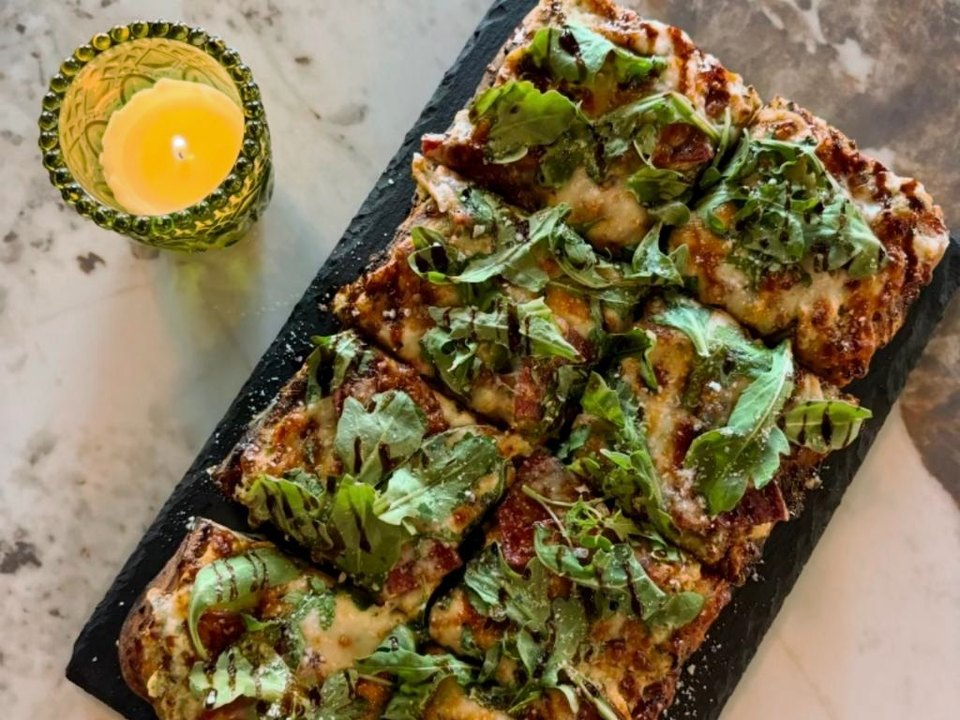
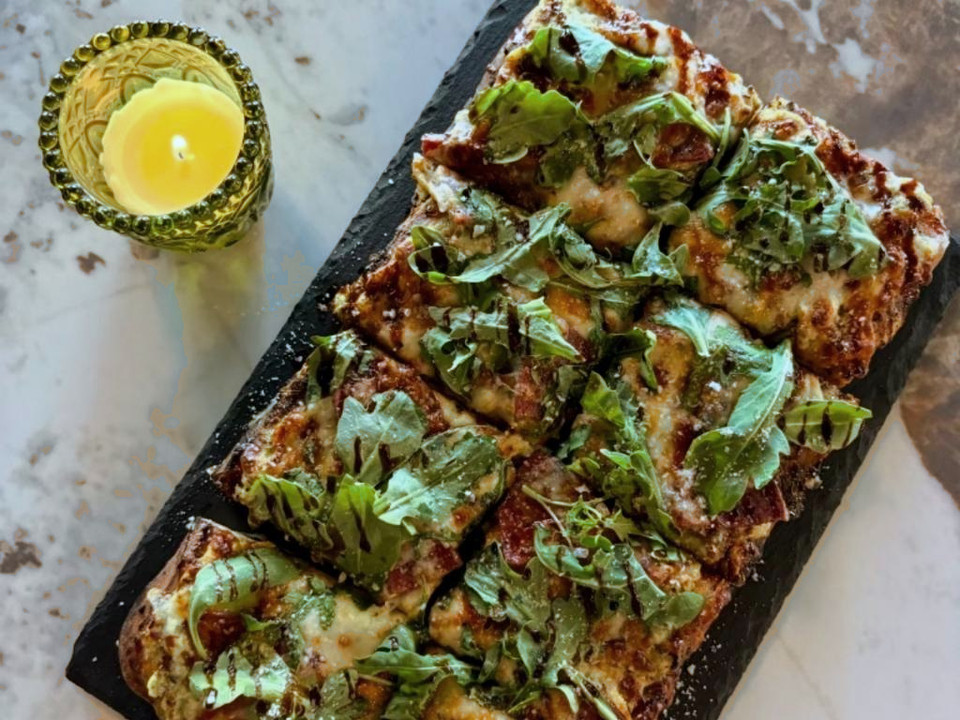
Give the menu strip a full-width bar and cool the featured plates.
The desktop category bar now spans the page and clears the dishes. Featured DoorDash plates are re-exported cooler at native size. Jazz food sits side by side, event links are named, and the shared hover transition covers colour only.

diff --git a/public/menu.html b/public/menu.html
@@ -40,8 +40,8 @@
     .actions { display:flex; flex-wrap:wrap; gap:10px; align-items:center; margin:8px 0 22px; }
     .btn { display:inline-flex; align-items:center; justify-content:center; min-height:44px; padding:14px 22px; background:var(--gold); color:var(--black); text-decoration:none; font-size:.72rem; letter-spacing:.16em; text-transform:uppercase; }
     .btn.line { background:transparent; color:#f4ead8; border:1px solid rgba(244,234,216,.72); font-weight:500; }
-    .menu-jumps { display:flex; flex-wrap:wrap; gap:8px 10px; position:sticky; top:84px; z-index:20; background:#070605; padding:8px 0; margin:0 0 20px; }
-    .menu-jumps a { display:inline-flex; align-items:center; min-height:44px; padding:10px 14px; color:var(--gold-bright); font-size:16px; line-height:1.3; text-decoration:none; border-bottom:1px solid rgba(212,175,106,.5); transition:color 160ms ease; }
+    .menu-jumps { display:flex; flex-wrap:wrap; gap:8px 10px; position:sticky; top:84px; z-index:30; background:#070605; padding:12px 0 16px; margin:0 0 28px; border-bottom:1px solid rgba(212,175,106,.35); }
+    .menu-jumps a { display:inline-flex; align-items:center; min-height:44px; padding:10px 14px; color:var(--gold-bright); font-size:16px; line-height:1.3; text-decoration:none; border-bottom:1px solid rgba(212,175,106,.5); }
     .menu-jumps a:hover { color:var(--cream); border-bottom-color:var(--gold-bright); background:rgba(212,175,106,.16); }
     .menu-jumps a:focus-visible { color:var(--cream); outline:2px solid var(--gold-bright); outline-offset:3px; background:rgba(212,175,106,.16); }
     .menu-jumps a[aria-current="true"] { color:var(--cream); border-bottom-color:var(--gold); box-shadow:inset 0 -2px 0 var(--gold); }
@@ -53,7 +53,7 @@
     .cat-split { display:grid; grid-template-columns:1fr; gap:12px; align-items:start; margin-top:8px; }
     .cat-split > div, .cat-split > .cat-photo { grid-column:auto; grid-row:auto; min-width:0; margin:0; }
     .cat-split h3 { margin-top:8px; }
-    .menu-board section, #hot-honey, #garden-mezze, #classic-melt { scroll-margin-top:156px; }
+    .menu-board section, #hot-honey, #garden-mezze, #classic-melt, .cat-photo { scroll-margin-top:196px; }
     body.has-site-nav .menu-lead img { width:100%; max-width:100%; height:auto; margin:0; aspect-ratio:auto; object-fit:contain; display:block; border-radius:6px; }
     body.has-site-nav .cat-photo img { width:100%; height:auto; aspect-ratio:4/3; object-fit:contain; object-position:center; display:block; border-radius:6px; }
     @media (max-width:768px) {
@@ -76,6 +76,7 @@
     }
     .chapter-grid { display:grid; grid-template-columns:1fr; gap:36px; align-items:start; }
     @media (min-width:761px) {
+      .menu-jumps { box-shadow: 100vmax 0 0 #070605, -100vmax 0 0 #070605; }
       .chapter-grid { grid-template-columns:repeat(2, minmax(0, 1fr)); column-gap:32px; }
       .chapter-grid > :nth-child(3) { grid-column:1 / -1; }
       .chapter-grid > :nth-child(3) ul { display:grid; grid-template-columns:repeat(2, minmax(0, 1fr)); column-gap:56px; row-gap:0; align-items:start; }
@@ -104,12 +105,12 @@
       .chapter-grid { grid-template-columns:1fr; }
       .chapter-grid > :nth-child(3) { grid-column:auto; }
       .chapter-grid > :nth-child(3) ul { display:block; grid-template-columns:none; }
-      .menu-jumps { position:sticky; top:76px; z-index:20; background:#070605; flex-wrap:nowrap; overflow-x:scroll; overscroll-behavior-x:contain; padding:12px 0 10px; margin-bottom:20px; scrollbar-width:thin; scrollbar-color:#d4af6a rgba(212,175,106,.28); }
+      .menu-jumps { top:76px; flex-wrap:nowrap; overflow-x:scroll; overscroll-behavior-x:contain; padding:12px 20px 10px; margin-bottom:20px; scrollbar-width:thin; scrollbar-color:#d4af6a rgba(212,175,106,.28); }
       .menu-jumps::-webkit-scrollbar { height:3px; }
       .menu-jumps::-webkit-scrollbar-track { background:rgba(212,175,106,.18); }
       .menu-jumps::-webkit-scrollbar-thumb { background:#d4af6a; }
       .menu-jumps a { flex:0 0 auto; padding:12px 18px; }
-      .menu-board section { scroll-margin-top:148px; }
+      .menu-board section, .cat-photo { scroll-margin-top:168px; }
     }
   </style>
 </head>

diff --git a/public/private-events.html b/public/private-events.html
@@ -37,7 +37,7 @@
     .card h3 { margin-top:0; }
     .card p:last-child { margin-bottom:0; }
     .card ul { margin-left:18px; }
-    .plan-link { display:inline-block; margin-top:4px; font-family:system-ui,-apple-system,"Segoe UI",Roboto,sans-serif; font-size:17px; font-weight:400; letter-spacing:normal; line-height:1.6; color:var(--gold-bright); text-decoration:underline; text-underline-offset:0.15em; transition:color 160ms ease; }
+    .plan-link { display:inline-flex; align-items:center; min-height:44px; margin-top:4px; padding:0 2px; font-family:system-ui,-apple-system,"Segoe UI",Roboto,sans-serif; font-size:17px; font-weight:400; letter-spacing:normal; line-height:1.6; color:var(--gold-bright); text-decoration:underline; text-underline-offset:0.15em; }
     .plan-link:hover { color:var(--cream); }
     .plan-link:focus-visible { outline:2px solid var(--gold-bright); outline-offset:3px; }
     .price-note { font-size:.85rem; color:var(--muted); line-height:1.6; }
@@ -56,7 +56,7 @@
     .inquire-form label { display:block; font-family:'Josefin Sans', sans-serif; font-size:.68rem; letter-spacing:.14em; text-transform:uppercase; color:var(--gold); margin-bottom:8px; }
     .inquire-form input, .inquire-form select, .inquire-form textarea { box-sizing:border-box; width:100%; max-width:100%; min-width:0; background:transparent; color:var(--cream); border:1px solid rgba(212,175,106,.35); padding:0 16px; min-height:48px; height:48px; font-family:system-ui,-apple-system,"Segoe UI",Roboto,sans-serif; font-size:16px; line-height:1.4; }
     .inquire-form input:focus, .inquire-form select:focus, .inquire-form textarea:focus,
-    .inquire-form input:focus-visible, .inquire-form select:focus-visible, .inquire-form textarea:focus-visible { outline:2px solid #d4af6a; outline-offset:2px; border-color:#d4af6a; }
+    .inquire-form input:focus-visible, .inquire-form select:focus-visible, .inquire-form textarea:focus-visible { outline:2px solid #d4af6a; outline-offset:2px; border-color:#d4af6a; background:rgba(212,175,106,.1); }
     .inquire-form textarea { height:auto; min-height:120px; padding:14px 16px; resize:vertical; }
     .inquire-form button { border:0; cursor:pointer; font-family:'Josefin Sans', sans-serif; min-height:48px; }
     .actions { display:flex; flex-wrap:wrap; gap:10px; justify-content:flex-start; align-items:center; }
@@ -142,28 +142,28 @@
         <span class="tag">Corporate</span>
         <h3>Alcohol-Free Happy Hour</h3>
         <p>Team time, with alcohol-free cocktails.</p>
-        <a class="plan-link" href="#inquire" data-occasion="Office gathering">Plan this gathering →</a>
+        <a class="plan-link" href="#inquire" data-occasion="Office gathering">Plan team time →</a>
       </div>
 
       <div class="card">
         <span class="tag">Celebration</span>
         <h3>Showers &amp; Birthdays</h3>
         <p>Showers, birthdays, and a reason to get everyone together.</p>
-        <a class="plan-link" href="#inquire" data-occasion="Shower">Plan this gathering →</a>
+        <a class="plan-link" href="#inquire" data-occasion="Shower">Plan a celebration →</a>
       </div>
 
       <div class="card">
         <span class="tag">Private</span>
         <h3>A Reserved Section</h3>
         <p>Book clubs, anniversaries, and room to catch up.</p>
-        <a class="plan-link" href="#inquire" data-occasion="Book club">Plan this gathering →</a>
+        <a class="plan-link" href="#inquire" data-occasion="Book club">Plan your gathering →</a>
       </div>
 
       <div class="card">
         <span class="tag">Recovery</span>
         <h3>Recovery Milestones</h3>
         <p>Mark the milestone with good company and alcohol-free cocktails.</p>
-        <a class="plan-link" href="#inquire" data-occasion="Recovery milestone">Plan this gathering →</a>
+        <a class="plan-link" href="#inquire" data-occasion="Recovery milestone">Mark the milestone →</a>
       </div>
     </div>
 

diff --git a/public/sunday-jazz-brunch.html b/public/sunday-jazz-brunch.html
@@ -23,9 +23,9 @@
     .shell { width:min(100% - 40px, 1080px); margin:0 auto; padding:56px 0 72px; }
     h1 { font-family:'Cormorant Garamond', Georgia, serif; font-weight:500; font-size:clamp(2.4rem,5vw,3rem); letter-spacing:0; text-transform:none; color:var(--cream); margin-bottom:16px; line-height:1.05; }
     h2 { font-family:'Cormorant Garamond', Georgia, serif; font-weight:500; font-size:1.7rem; color:var(--gold-bright); margin:32px 0 12px; letter-spacing:0; text-transform:none; }
-    h2.order-head { font-size:clamp(2.6rem, 6vw, 3.5rem); line-height:1.05; }
+    h2.order-head { font-size:clamp(2.6rem, 6vw, 3.5rem); line-height:1.05; text-wrap:balance; }
     .order-links { display:flex; flex-wrap:wrap; gap:8px 22px; margin:4px 0 0; }
-    .order-links a { color:var(--gold); text-decoration:none; transition:color 160ms ease; }
+    .order-links a { color:var(--gold); text-decoration:none; }
     .order-links a:hover { color:var(--cream); }
     p, li, dd { font-family:system-ui,-apple-system,"Segoe UI",Roboto,sans-serif; font-size:17px; font-weight:400; letter-spacing:normal; line-height:1.6; color:#f4ead8; }
     p, li { margin-bottom:14px; }
@@ -51,7 +51,7 @@
     figcaption { font-family:'Josefin Sans', sans-serif; font-size:.75rem; letter-spacing:.12em; text-transform:uppercase; color:var(--gold); margin-top:8px; }
     details { border:0; border-top:1px solid rgba(244,234,216,.28); background:transparent; margin:0; padding:0 4px; }
     details:last-child { border-bottom:1px solid rgba(244,234,216,.28); }
-    summary { cursor:pointer; list-style:none; display:flex; justify-content:space-between; align-items:center; gap:16px; padding:22px 0; font-family:'Cormorant Garamond', Georgia, serif; font-weight:500; font-size:1.28rem; color:var(--cream); transition:color 160ms ease; }
+    summary { cursor:pointer; list-style:none; display:flex; justify-content:space-between; align-items:center; gap:16px; padding:22px 0; font-family:'Cormorant Garamond', Georgia, serif; font-weight:500; font-size:1.28rem; color:var(--cream); }
     summary:hover, summary:focus-visible { color:var(--gold-bright); }
     summary::-webkit-details-marker { display:none; }
     summary::marker { content:''; }
@@ -74,14 +74,17 @@
       }
       .split > h2 { margin:0; }
       .split.order-chapter {
-        display:block;
+        display:grid;
+        grid-template-columns:minmax(0, 1.2fr) minmax(16rem, 0.8fr);
+        column-gap:48px;
+        align-items:start;
         max-width:none;
         border-top:1px solid rgba(244,234,216,.28);
         padding:52px 0 8px;
         margin-top:56px;
       }
-      .split.order-chapter > h2 { margin:0 0 18px; }
-      .split.order-chapter .split-copy { max-width:40rem; }
+      .split.order-chapter > h2 { margin:0; font-size:clamp(2.35rem, 3.8vw, 3.2rem); }
+      .split.order-chapter .split-copy { max-width:none; }
     }
     @media (max-width:640px) {
       .facts dl { grid-template-columns:1fr; }
@@ -154,7 +157,7 @@
     </section>
 
     <section class="split order-chapter">
-      <h2 class="rise order-head">A little breakfast. A little New Orleans.</h2>
+      <h2 class="rise order-head">A little breakfast.<br>A little New Orleans.</h2>
       <div class="split-copy">
         <p>The White Rabbit brings egg, brie, fig spread, prosciutto, and hot honey. Garden District Muffuletta keeps it plant-based. Add espresso, Kyoto Cold Brew, chai, or an alcohol-free Call Me An Ube.</p>
         <p>The full menu runs from open to close.</p>

diff --git a/public/index.html b/public/index.html
@@ -336,7 +336,7 @@ html { scroll-padding-top: 84px; }
     .nav-cta {
       text-decoration: none; font-size: 0.72rem; letter-spacing: 0.24em; text-transform: uppercase;
       color: var(--gold); border: 1px solid var(--gold-dim); padding: 12px 22px;
-      transition: color 160ms ease; font-weight: 400; white-space: nowrap;
+      font-weight: 400; white-space: nowrap;
     }
     .nav-cta:hover, .nav-cta:focus-visible { background: var(--gold); color: #060504; }
     .party-link {
@@ -432,7 +432,7 @@ html { scroll-padding-top: 84px; }
     .hero-actions { display: flex; gap: 18px; flex-wrap: wrap; justify-content: center; }
     .btn {
       text-decoration: none; font-size: 0.74rem; letter-spacing: 0.28em; text-transform: uppercase;
-      padding: 17px 38px; transition: color 160ms ease; font-weight: 400;
+      padding: 17px 38px; font-weight: 400;
     }
     .btn-solid { background: var(--gold); color: #060504; font-weight: 600; }
     .btn-solid:hover, .btn-solid:focus-visible { background: var(--gold-bright); color: #060504; }
@@ -615,7 +615,6 @@ html { scroll-padding-top: 84px; }
     summary {
       cursor: pointer; list-style: none; display: flex; justify-content: space-between; align-items: center;
       padding: 14px 0; font-family: 'Cormorant Garamond', serif; font-size: 1.28rem; color: var(--cream);
-      transition: color 160ms ease;
     }
     summary:hover, summary:focus-visible { color: var(--gold-bright); }
     summary::-webkit-details-marker { display: none; }
@@ -962,8 +961,8 @@ html { scroll-padding-top: 84px; }
       <p class="band-line">Espresso. Hot honey. Something with a little kick.</p>
       <figure class="band-photo tone-food rise">
         <picture>
-          <source srcset="/images/food/dd-hot-honey-lead-400.webp 400w, /images/food/dd-hot-honey-lead-640.webp 640w, /images/food/dd-hot-honey-lead-800.webp 800w, /images/food/dd-hot-honey-lead-960.webp 960w" sizes="(max-width: 900px) calc(100vw - 48px), 560px" type="image/webp">
-          <img src="/images/food/dd-hot-honey-lead-960.jpg" width="960" height="720" alt="Hot Honey Soppressata Flatbread" loading="lazy" decoding="async">
+          <source srcset="/images/food/dd-hot-honey-lead-400.webp 400w, /images/food/dd-hot-honey-lead-640.webp 640w, /images/food/dd-hot-honey-lead-800.webp 800w, /images/food/dd-hot-honey-lead-1024.webp 1024w" sizes="(max-width: 900px) calc(100vw - 48px), 560px" type="image/webp">
+          <img src="/images/food/dd-hot-honey-lead-1024.jpg" width="1024" height="768" alt="Hot Honey Soppressata Flatbread" loading="lazy" decoding="async">
         </picture>
         <figcaption>Hot Honey Soppressata Flatbread</figcaption>
       </figure>

diff --git a/public/reservations.html b/public/reservations.html
@@ -122,7 +122,7 @@
     .nav-cta {
       text-decoration: none; font-size: 0.72rem; letter-spacing: 0.24em; text-transform: uppercase;
       color: var(--gold); border: 1px solid var(--gold-dim); padding: 12px 22px;
-      transition: color 160ms ease; font-weight: 400; white-space: nowrap;
+      font-weight: 400; white-space: nowrap;
     }
     .nav-cta:hover, .nav-cta:focus-visible { background: var(--gold); color: #060504; }
     .nav-reserve { display: flex; align-items: center; flex: none; }
@@ -177,7 +177,7 @@
     .hero-actions { display: flex; gap: 18px; flex-wrap: wrap; justify-content: center; }
     .btn {
       text-decoration: none; font-size: 0.74rem; letter-spacing: 0.28em; text-transform: uppercase;
-      padding: 17px 38px; transition: color 160ms ease; font-weight: 400;
+      padding: 17px 38px; font-weight: 400;
     }
     .btn-solid { background: var(--gold); color: #060504; font-weight: 600; }
     .btn-solid:hover, .btn-solid:focus-visible { background: #f0ddb0; color: #060504; }
@@ -227,7 +227,6 @@
     summary {
       cursor: pointer; list-style: none; display: flex; justify-content: space-between; align-items: center;
       padding: 22px 0; font-family: 'Cormorant Garamond', serif; font-size: 1.28rem; color: var(--cream);
-      transition: color 160ms ease;
     }
     summary:hover, summary:focus-visible { color: var(--gold-bright); }
     summary::-webkit-details-marker { display: none; }

diff --git a/public/404.html b/public/404.html
@@ -45,7 +45,7 @@
     h1 em { font-family: 'Cormorant Garamond', serif; font-style: italic; text-transform: none; color: var(--gold-bright); font-size: 1.15em; }
     p.sub { color: var(--muted); max-width: 34rem; margin: 20px auto 0; position: relative; }
     .actions { display: flex; flex-wrap: wrap; gap: 16px; justify-content: center; margin-top: 38px; position: relative; }
-    .btn { text-decoration: none; font-size: 0.72rem; letter-spacing: 0.24em; text-transform: uppercase; padding: 15px 30px; transition: color 160ms ease; }
+    .btn { text-decoration: none; font-size: 0.72rem; letter-spacing: 0.24em; text-transform: uppercase; padding: 15px 30px; }
     .btn-solid { background: var(--gold); color: #000; }
     .btn-solid:hover { background: var(--gold-bright); }
     .btn-line { color: var(--gold); border: 1px solid var(--gold-dim); }

diff --git a/public/terms.html b/public/terms.html
@@ -54,7 +54,7 @@
     }
     article p { color: var(--muted); margin: 12px 0; }
     article a { color: var(--gold); }
-    .back { display: inline-block; margin-top: 44px; text-decoration: none; font-size: 0.72rem; letter-spacing: 0.24em; text-transform: uppercase; color: var(--gold); border: 1px solid var(--gold-dim); padding: 14px 26px; transition: color 160ms ease; }
+    .back { display: inline-block; margin-top: 44px; text-decoration: none; font-size: 0.72rem; letter-spacing: 0.24em; text-transform: uppercase; color: var(--gold); border: 1px solid var(--gold-dim); padding: 14px 26px; }
     .back:hover { background: var(--gold); color: #000; }
     footer { text-align: center; padding: 12px 0 8px; border-top: 1px solid var(--gold-faint); }
     footer img { height: 46px; width: auto; margin: 0 auto 20px; opacity: 0.9; }

diff --git a/public/privacy.html b/public/privacy.html
@@ -54,7 +54,7 @@
     }
     article p { color: var(--muted); margin: 12px 0; }
     article a { color: var(--gold); }
-    .back { display: inline-block; margin-top: 44px; text-decoration: none; font-size: 0.72rem; letter-spacing: 0.24em; text-transform: uppercase; color: var(--gold); border: 1px solid var(--gold-dim); padding: 14px 26px; transition: color 160ms ease; }
+    .back { display: inline-block; margin-top: 44px; text-decoration: none; font-size: 0.72rem; letter-spacing: 0.24em; text-transform: uppercase; color: var(--gold); border: 1px solid var(--gold-dim); padding: 14px 26px; }
     .back:hover { background: var(--gold); color: #000; }
     /* footer */
     footer { text-align: center; padding: 12px 0 8px; border-top: 1px solid var(--gold-faint); }

diff --git a/public/chrome.css b/public/chrome.css
@@ -316,15 +316,6 @@ footer .fine a { color: #f4ead8; text-decoration: none; }
 footer .fine a:hover { color: #d4af6a; }
 
 /* Shared button states. Solid fills lighten; outlined buttons pick up a gold wash. */
-a.btn,
-button.btn,
-.site-cta,
-.btn-solid,
-.btn-line,
-.nav-cta {
-  transition: color 160ms ease;
-}
-summary { transition: color 160ms ease; }
 summary:hover,
 summary:focus-visible { color: #eed9a4; }
 a.btn:not(.line):not(.btn-line):hover,

diff --git a/public/grade.css b/public/grade.css
@@ -50,3 +50,19 @@ a[data-cta].btn-solid:focus-visible,
   outline: 2px solid #f4ead8;
   outline-offset: 3px;
 }
+
+/* One transition for buttons, category links, event links, and FAQ questions. Colour only — no movement. */
+a.btn,
+button.btn,
+.btn,
+.site-cta,
+.btn-solid,
+.btn-line,
+.nav-cta,
+.menu-jumps a,
+.plan-link,
+.order-links a,
+summary,
+.back {
+  transition: color 160ms ease, background-color 160ms ease, border-color 160ms ease;
+}
